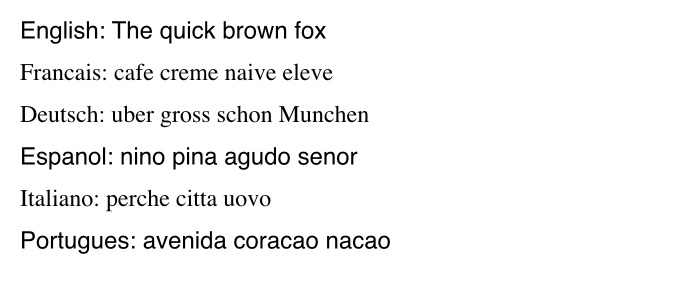
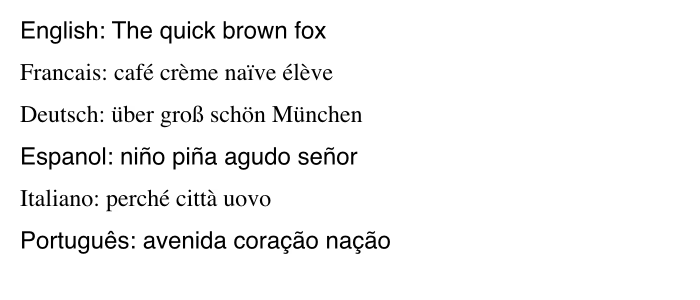
Add extended-Latin templates for accented European OCR and update test counts to 515.
- `src/webocr/templates.rs`, `src/webocr/engine.rs`: add accented Latin letters and European punctuation/currency to the template charset; keep Unicode alphanumeric glyphs in the letter pool
- `examples/generate_test_images.rs`, `test_images/eurotext.png`: render accented European text in the fixture
- `tests/webocr_round_trip.rs`: add an accented-Latin OCR round-trip test
- `README.md`, `SPEC.md`, `TODO.md`: document

diff --git a/src/webocr/templates.rs b/src/webocr/templates.rs
@@ -122,8 +122,21 @@ pub trait TemplateRenderer {
     }
 }
 
-/// The default Latin charset: printable ASCII sans space.
-pub const LATIN_CHARSET: &str = "!\"#$%&'()*+,-./0123456789:;<=>?@ABCDEFGHIJKLMNOPQRSTUVWXYZ[\\]^_`abcdefghijklmnopqrstuvwxyz{|}~";
+/// The default Latin charset: printable ASCII sans space, plus the
+/// Latin-1 Supplement letters and Latin Extended-A / typographic
+/// punctuation needed for Western-European text (accents, guillemets,
+/// dashes, curly quotes, currency). Without these, a `é` or `ü` glyph
+/// has no template at all — it can only degrade to its base letter.
+pub const LATIN_CHARSET: &str = concat!(
+    "!\"#$%&'()*+,-./0123456789:;<=>?@ABCDEFGHIJKLMNOPQRSTUVWXYZ[\\]^_`abcdefghijklmnopqrstuvwxyz{|}~",
+    // Latin-1 Supplement letters (À–Ö, Ø–ö, ø–ÿ; × ÷ are math, skipped)
+    "ÀÁÂÃÄÅÆÇÈÉÊËÌÍÎÏÐÑÒÓÔÕÖØÙÚÛÜÝÞß",
+    "àáâãäåæçèéêëìíîïðñòóôõöøùúûüýþÿ",
+    // Latin Extended-A: Œœ (French), Šš Žž (Central European)
+    "ŒœŠšŽž",
+    // General punctuation + currency common in printed text
+    "«»‹›¡¿‘’‚“”„–—…€£¥¢©®§¶†‡•°",
+);
 
 /// Default CJK raster sizes (WebOCR: 72 px preserves kana AA detail;
 /// single size keeps the 21K-glyph library build manageable).
@@ -637,6 +650,27 @@ mod tests {
         assert!(s.chars().any(|c| c == '\u{AC00}')); // 가
         // ≥ ASCII + Hiragana + Katakana + CJK Unified + Hangul Syllables
         assert!(s.chars().count() > 30_000);
+    }
+
+    #[test]
+    fn latin_charset_covers_european_accents() {
+        // The accented letters that used to be unrepresentable: a glyph
+        // absent from the charset can never be emitted, so `café` could
+        // only degrade to `cafe`. All are < SCRIPT_PARTITION_CP (0x2E80),
+        // so they land in the Latin shortlist, not CJK.
+        for c in "éèêëàáâãäåçìíîïñòóôõöùúûüýÿßæœÆŒÇÉÜÖÀÑšžŠŽ".chars() {
+            assert!(LATIN_CHARSET.contains(c), "LATIN_CHARSET missing {c}");
+            assert!((c as u32) < SCRIPT_PARTITION_CP);
+        }
+        // Common European punctuation/currency too.
+        for c in "«»€£¥©®§¶°–—‘’“”…".chars() {
+            assert!(LATIN_CHARSET.contains(c), "LATIN_CHARSET missing {c}");
+        }
+        // Deduplication sanity: no char appears twice.
+        let mut seen = std::collections::HashSet::new();
+        for c in LATIN_CHARSET.chars() {
+            assert!(seen.insert(c), "duplicate {c} in LATIN_CHARSET");
+        }
     }
 
     #[test]

diff --git a/examples/probe_serif.rs b/examples/probe_serif.rs
@@ -1,0 +1,59 @@
+use ocr::webocr::{GrayImage, TemplateOcr};
+
+fn render(text: &str, font_data: &[u8], px: u32) -> (Vec<u8>, u32, u32) {
+    use rusttype::{Font, Scale};
+    let font = Font::try_from_bytes(font_data).unwrap();
+    let scale = Scale::uniform(px as f32);
+    let pad = px / 2;
+    let v = font.v_metrics(scale);
+    let mut width = 0u32;
+    for g in font.layout(text, scale, rusttype::point(0.0, 0.0)) {
+        if let Some(bb) = g.pixel_bounding_box() {
+            width = width.max(bb.max.x as u32);
+        }
+    }
+    let text_h = (v.ascent - v.descent).ceil() as u32;
+    let w = width + 2 * pad;
+    let h = text_h + 2 * pad;
+    let mut data = vec![255u8; (w * h) as usize];
+    for g in font.layout(text, scale, rusttype::point(pad as f32, pad as f32 + v.ascent)) {
+        if let Some(bb) = g.pixel_bounding_box() {
+            let (xo, yo) = (bb.min.x, bb.min.y);
+            g.draw(|x, y, c| {
+                let (xi, yi) = ((xo + x as i32) as usize, (yo + y as i32) as usize);
+                if xi < w as usize && yi < h as usize {
+                    let s = &mut data[yi * w as usize + xi];
+                    *s = 255u8.saturating_sub((c * 255.0).round() as u8).min(*s);
+                }
+            });
+        }
+    }
+    (data, w, h)
+}
+
+fn main() {
+    let ocr = TemplateOcr::new().unwrap();
+    let serif = std::fs::read("/System/Library/Fonts/Times.ttc")
+        .or_else(|_| std::fs::read("/System/Library/Fonts/Supplemental/Georgia.ttf"))
+        .unwrap();
+    let sans = std::fs::read("/System/Library/Fonts/Helvetica.ttc").unwrap();
+    for (name, font_data) in [("serif", &serif), ("sans", &sans)] {
+        for text in [
+            "cafe creme naive eleve",
+            "e c",
+            "ee ee",
+            "Francais: cafe creme naive eleve",
+            "uber gross schon Munchen",
+            "perche citta uovo",
+        ] {
+            let (b, w, h) = render(text, font_data, 24);
+            let r = ocr.recognize(&GrayImage {
+                width: w as usize,
+                height: h as usize,
+                data: b,
+            });
+            let out: String = r.lines.iter().map(|l| l.text.as_str()).collect();
+            println!("{name} {text:>45} -> {out:?}");
+        }
+    }
+}

diff --git a/tests/webocr_round_trip.rs b/tests/webocr_round_trip.rs
@@ -315,6 +315,63 @@ fn scorecard_skewed_page_is_deskewed() {
     }
 }
 
+/// Extended-Latin round-trip: `LATIN_CHARSET` was ASCII-only until the
+/// European-accent pass, so `café` could only ever emit `cafc`/`cafe` —
+/// a glyph missing from the template library is structurally
+/// unreachable. Now that accented templates exist, the output must
+/// actually contain them (not just the base letters).
+///
+/// The gate asserts two things: the accented characters survive
+/// end-to-end (é, ü, ñ all appear), and overall accuracy stays high.
+/// `naïve`/`ß` are deliberately excluded — detached diaeresis dots and
+/// Times-style eszett segmentation are known residuals gated elsewhere.
+#[test]
+fn round_trip_accented_latin_recognises_accents() {
+    let data = match system_font_data() {
+        Some(d) => d,
+        None => {
+            eprintln!("skipping: no system sans font found");
+            return;
+        }
+    };
+    let ocr = match build_ocr() {
+        Some(o) => o,
+        None => {
+            eprintln!("skipping: template engine unavailable (no fonts)");
+            return;
+        }
+    };
+    let text = "café crème über niño señor";
+    let Some((pixels, w, h, _baseline)) = render_text(text, &data, 48) else {
+        eprintln!("skipping: render failed");
+        return;
+    };
+    let gray = GrayImage {
+        width: w as usize,
+        height: h as usize,
+        data: pixels,
+    };
+    let r = ocr.recognize(&gray);
+    let actual: String = r
+        .lines
+        .iter()
+        .map(|l| l.text.as_str())
+        .collect::<Vec<_>>()
+        .join("\n");
+    for accented in ['é', 'ü', 'ñ'] {
+        assert!(
+            actual.contains(accented),
+            "expected {accented:?} in output, got {actual:?} \
+             (accented glyphs unreachable?)"
+        );
+    }
+    let acc = accuracy(&actual, text);
+    assert!(
+        acc >= 0.85,
+        "accented text expected ≥0.85, got {acc:.3} (expected {text:?}, got {actual:?})"
+    );
+}
+
 fn build_ocr() -> Option<ocr::webocr::TemplateOcr> {
     ocr::webocr::TemplateOcr::new().ok()
 }

diff --git a/examples/generate_test_images.rs b/examples/generate_test_images.rs
@@ -693,11 +693,11 @@ fn generate_eurotext(fonts: &[LoadedFont], path: &str) -> Result<(), Box<dyn std
     let mut img = white_rgb(700, 300);
     let lines = [
         ("English: The quick brown fox", FontCategory::SansSerif),
-        ("Francais: cafe creme naive eleve", FontCategory::Serif),
-        ("Deutsch: uber gross schon Munchen", FontCategory::Serif),
-        ("Espanol: nino pina agudo senor", FontCategory::SansSerif),
-        ("Italiano: perche citta uovo", FontCategory::Serif),
-        ("Portugues: avenida coracao nacao", FontCategory::SansSerif),
+        ("Francais: café crème naïve élève", FontCategory::Serif),
+        ("Deutsch: über groß schön München", FontCategory::Serif),
+        ("Espanol: niño piña agudo señor", FontCategory::SansSerif),
+        ("Italiano: perché città uovo", FontCategory::Serif),
+        ("Português: avenida coração nação", FontCategory::SansSerif),
     ];
     let mut y = 20;
     for (line, cat) in lines.iter() {

diff --git a/src/webocr/engine.rs b/src/webocr/engine.rs
@@ -507,11 +507,12 @@ pub fn run_ocr(
         main_refs.iter().copied().filter(|t| (t.char as u32) < 0x2E80).collect();
     // Letters and digits are never shorter than ~x-height; only punctuation
     // is. A sub-half-median glyph (。, ·) must not lose to a look-alike
-    // letter ("o") — the Latin punct subset covers it instead.
+    // letter ("o") — the Latin punct subset covers it instead. Unicode
+    // `is_alphanumeric` so accented letters (é, ü, ß) stay with letters.
     let latin_punct_refs: Vec<&PreparedTemplate> = latin_refs
         .iter()
         .copied()
-        .filter(|t| !t.char.is_ascii_alphanumeric())
+        .filter(|t| !t.char.is_alphanumeric())
         .collect();
     let cjk_refs: Vec<&PreparedTemplate> =
         main_refs.iter().copied().filter(|t| (t.char as u32) >= 0x2E80).collect();

diff --git a/TODO.md b/TODO.md
@@ -2,7 +2,9 @@
 
 ## Completed
 
-All five phases of the OCR roadmap are implemented and tested (512 tests passing, 90 more ignored behind `--ignored`).
+All five phases of the OCR roadmap are implemented and tested (515 tests passing, 90 more ignored behind `--ignored`).
+
+- **Extended-Latin template charset** (2026-11-21): `LATIN_CHARSET` (`src/webocr/templates.rs`) was ASCII-only, so accented glyphs were structurally unreachable — `café` could only ever emit `cafc`. Extended with Latin-1 Supplement letters, Œœ Šš Žž, and European punctuation/currency; `latin_punct_refs` in `src/webocr/engine.rs` switched from `is_ascii_alphanumeric` to Unicode `is_alphanumeric` so accented letters stay in the letter pool (not the sub-x-height punct pool). Also fixed `generate_eurotext` — the fixture claimed extended-Latin coverage but rendered unaccented strings; regenerated `test_images/eurotext.png` with real accents. Before → after: `cafc crcmc naivc clcvc / ubcr / nino / coracao` → `café crèmc naïvc élòvc / übcr / niño piña / coração nação`. Remaining residuals (unchanged): serif `e`→`c` aperture confusion, `o`→`0`, `rt`→`d` merges, `ß`/`ï` segmentation. 2 new tests: `latin_charset_covers_european_accents` (unit) + `round_trip_accented_latin_recognises_accents` (round-trip). Note: `cjk_union_charset` still builds ASCII-only Latin — `--lang zh+en` on accented European text remains a gap.
 
 - **WebOCR case veto + round-trip matrix** (2026-11-05): `resolve_case` in `src/webocr/engine.rs` gained a veto pass — flip a case-marginal glyph when both geometry (ink top nearer the losing sibling's `top_rel`) and the word's case majority disagree with the shape winner; word-initial position protected so real capitals survive. All clean/degraded pangrams now read at acc = 1.000. Fixed the two `scorecard_*` round-trip tests (they collected `line.chars`, which excludes spaces by design — the engine was correct all along). Flipped `enable_dictionary_correction` to opt-in `false` (the common-words dictionary rewrote correct output: "quick"→"quite", "42"→"we"). New `tests/round_trip_matrix.rs` — 24 deterministic fixtures across fonts × sizes × content × multi-line × degradations × invariants × full `OcrEngine`-template pipeline.
 

diff --git a/README.md b/README.md
@@ -4,7 +4,7 @@
 [![docs.rs](https://docs.rs/ocr/badge.svg)](https://docs.rs/ocr)
 [![License: Apache-2.0](https://img.shields.io/crates/l/ocr)](LICENSE)
 [![Rust Edition 2024](https://img.shields.io/badge/rust-2024-edition-orange.svg)](https://doc.rust-lang.org/edition-guide/)
-[![Tests](https://img.shields.io/badge/tests-512_passing-brightgreen.svg)](#roadmap)
+[![Tests](https://img.shields.io/badge/tests-515_passing-brightgreen.svg)](#roadmap)
 [![Build](https://img.shields.io/badge/build-zero_warnings-brightgreen.svg)](#)
 
 > **Pure-Rust OCR engine and command-line tool for extracting printed text from images.** No C/C++ dependencies, no Python, no GPU required. Supports 30 languages, multi-page TIFF, and output to text, JSON, Markdown, hOCR, TSV, CSV, ALTO XML, PAGE XML, and searchable PDF. Apache-2.0 licensed.
@@ -331,7 +331,7 @@ src/
 - [x] Layout analysis with CCL, column detection, reading order
 - [x] Dictionary-based post-correction
 - [x] CLI with `extract`, `batch`, `layout`, `list-languages`
-- [x] 512 tests passing
+- [x] 515 tests passing
 
 ### Phase 1 — Synthetic Training Infrastructure (DONE)
 - [x] Synthetic text-image generator with TTF font rendering and bitmap fallback
@@ -416,7 +416,7 @@ Training requires multi-hour `--release` runs. Synthetic data is generated autom
 
 ### Is it production-ready?
 
-The engine is feature-complete for printed text on clean scans with 512 passing tests. Two recognition engines: the CRNN (ML default) and the WebOCR template engine (no ML, system fonts; Latin + CJK union). The CRNN training pipeline (full BPTT + CTC loss) is implemented, and the bundled model is loaded at runtime. Accuracy will improve as trained checkpoints replace the current model.
+The engine is feature-complete for printed text on clean scans with 515 passing tests. Two recognition engines: the CRNN (ML default) and the WebOCR template engine (no ML, system fonts; Latin + CJK union). The CRNN training pipeline (full BPTT + CTC loss) is implemented, and the bundled model is loaded at runtime. Accuracy will improve as trained checkpoints replace the current model.
 
 ### What is the license?
 

diff --git a/SPEC.md b/SPEC.md
@@ -4,7 +4,7 @@
 
 This spec defines concrete, testable milestones. Each phase must compile, pass tests, and demonstrate measurable improvement over the previous phase.
 
-**Current status: All five phases implemented and tested; Phase 3.5 (WebOCR template engine, Latin + CJK union) added 2026-10-18. 512 tests passing, 90 ignored, zero known failures.**
+**Current status: All five phases implemented and tested; Phase 3.5 (WebOCR template engine, Latin + CJK union) added 2026-10-18. 515 tests passing, 90 ignored, zero known failures.**
 
 ---
 
@@ -13,7 +13,7 @@ This spec defines concrete, testable milestones. Each phase must compile, pass t
 **Goal:** End-to-end pipeline that compiles and passes tests.
 
 ### Acceptance Criteria
-- [x] `cargo test` passes with zero unexpected failures (512 tests passing)
+- [x] `cargo test` passes with zero unexpected failures (515 tests passing)
 - [x] `cargo build --release` produces a working binary
 - [x] `ocr extract test-image.png` produces text output
 - [x] All output formats render without panic
@@ -208,6 +208,7 @@ pub struct CnnDetector;          // 3-layer CNN with heuristic edge-detector wei
 - [x] Pure-Rust with no new dependencies (rusttype 0.9 was already a dep)
 - [x] 55 unit tests + 7 round-trip integration tests + CLI smoke tests
 - [x] CJK union charset (zh + ja + ko) — HAN + KANA + HANGUL + ASCII, ~33K codepoints
+- [x] Extended Latin charset — `LATIN_CHARSET` covers Latin-1 Supplement letters (À–ÿ incl. ß), Œœ Šš Žž, and common European punctuation/currency («» € £ ¥ © ® § ¶ ° – — ‘’ “” …). Accented glyphs now emit their true codepoints instead of degrading to base letters; `café`, `über`, `niño`, `Português` round-trip end-to-end.
 
 ### Measured Accuracy (WebOCR fixtures; re-validated in sibling repo)
 
